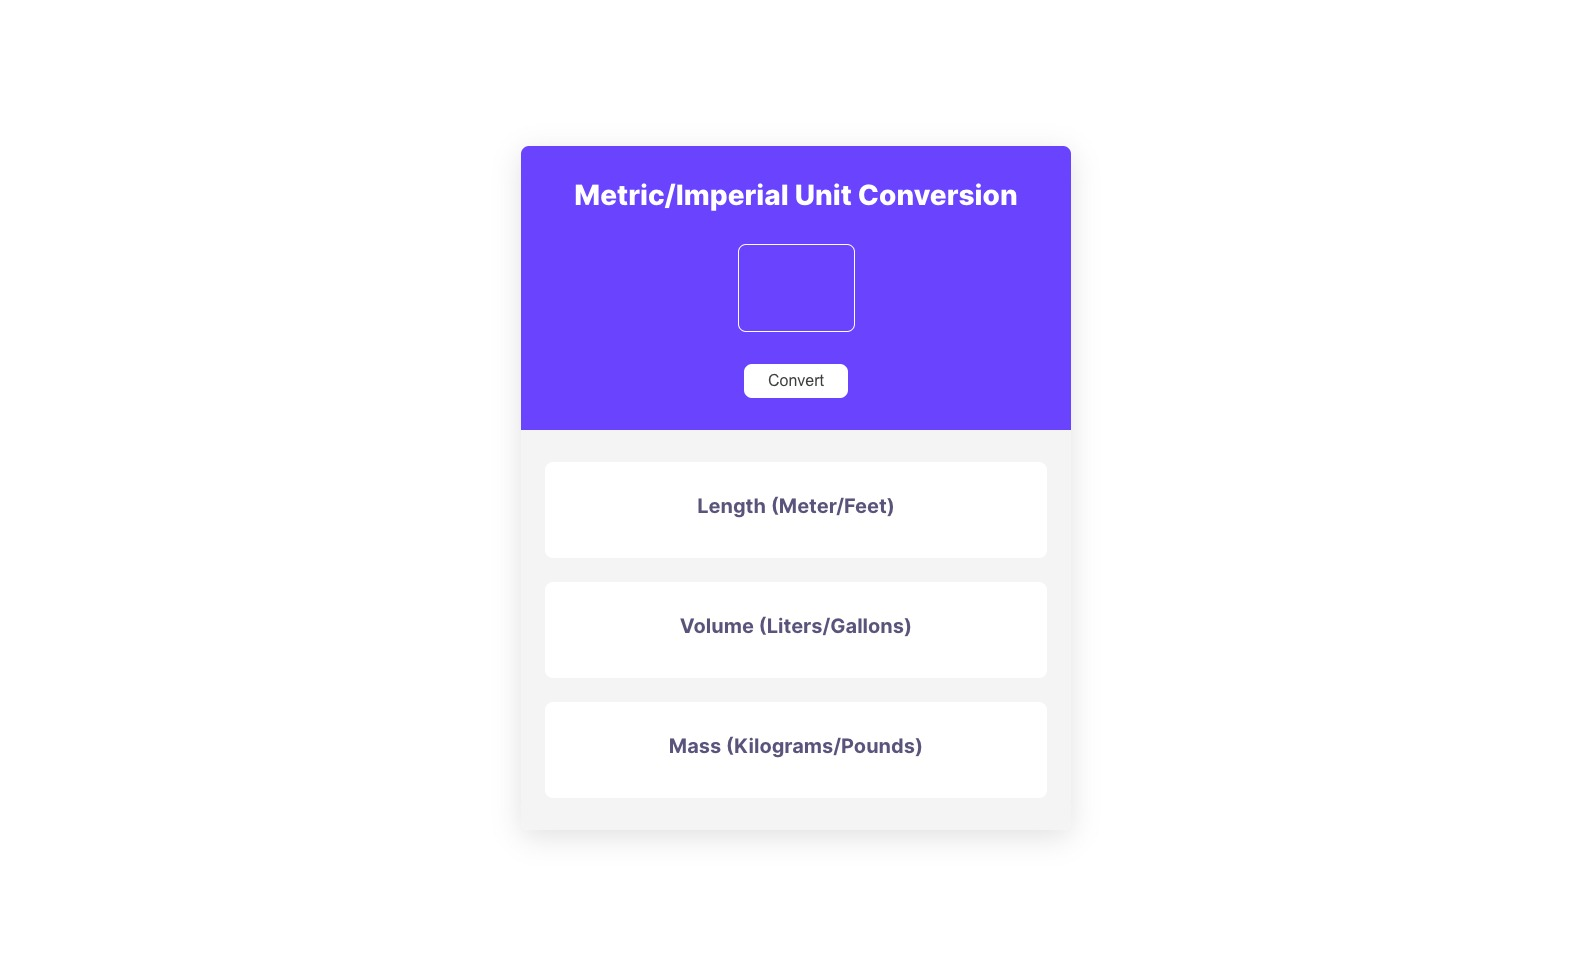
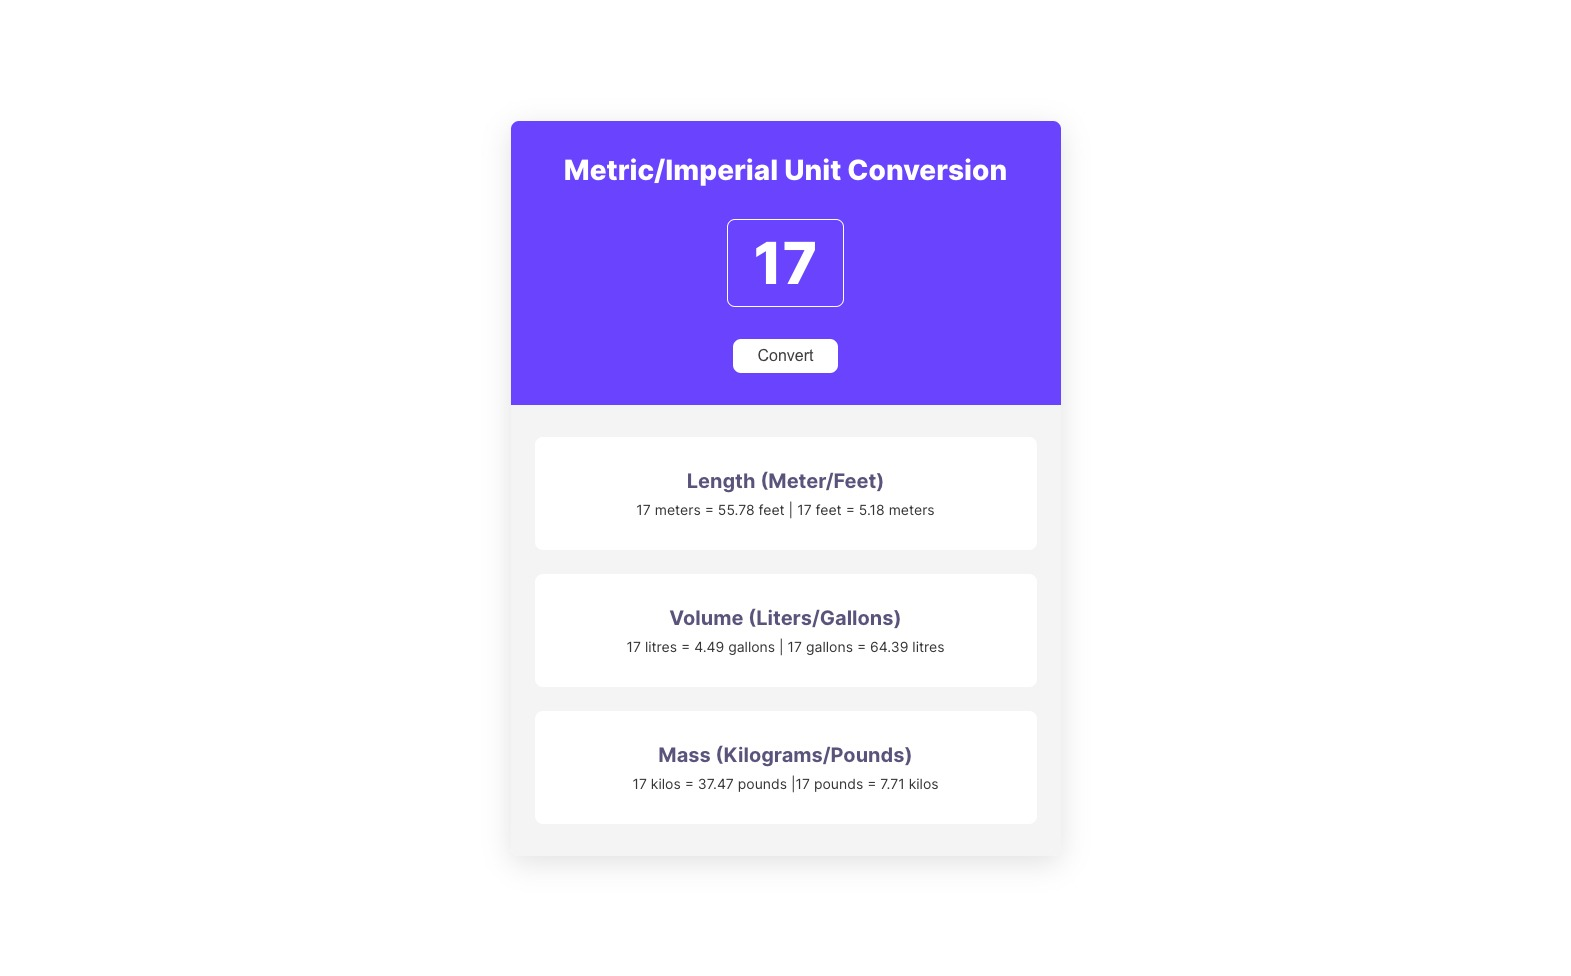
Added image of live site to readme.

diff --git a/README.md b/README.md
@@ -3,3 +3,6 @@
 A unit converter built and styled with html, css and js
 
 See it live here: https://onessr.github.io/unitConversion/
+
+URL screenshot of live mobile and desktop view:
+![Mobile and desktop view](./_assets/Unit-Converter_mobile_desktop.jpg)
